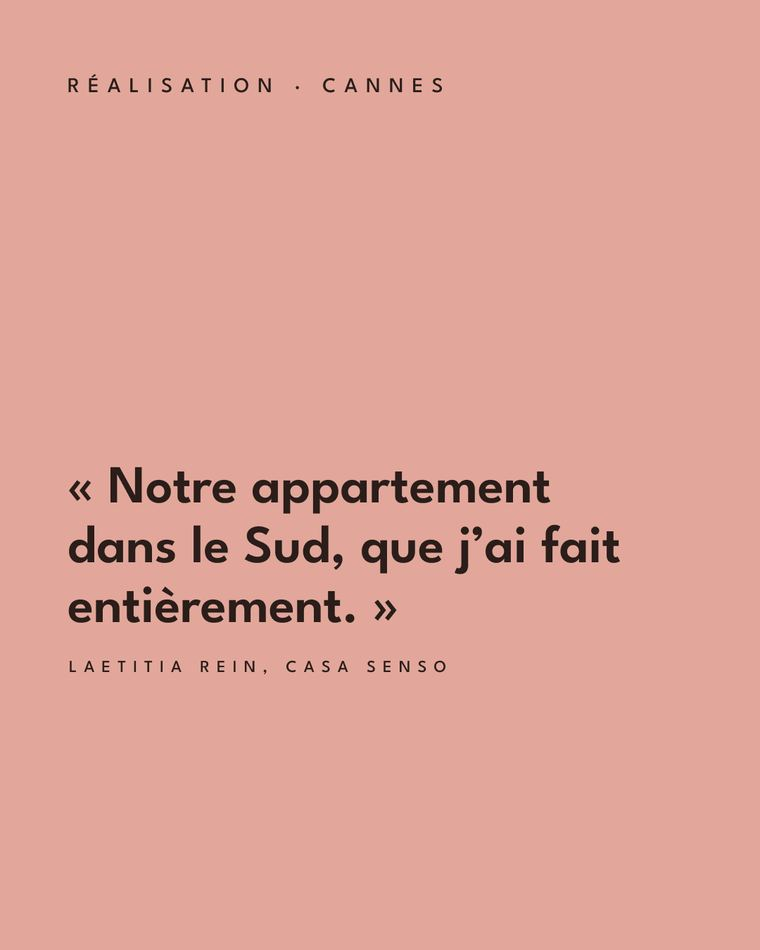
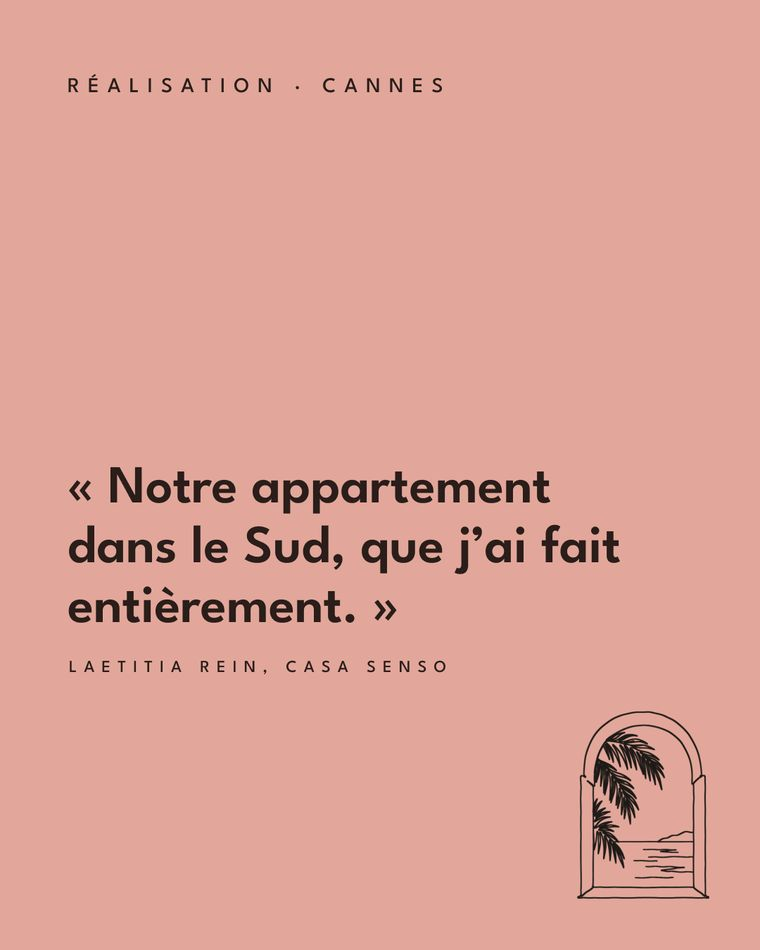
Cartes citation et fin : illustration au trait validée, appliquée dans Figma et l'artefact

Changed region(s): [[0.7566, 0.7632, 0.9382, 0.9463]]

diff --git a/outputs/batches/CASASENSO-cartes-differenciateurs-20261113/FICHE-DE-LOT.md b/outputs/batches/CASASENSO-cartes-differenciateurs-20261113/FICHE-DE-LOT.md
@@ -1,4 +1,4 @@
-# Lot CASASENSO-cartes-differenciateurs-20261113 · version 1 · statut : livré pour choix dans Figma (13.11.2026)
+# Lot CASASENSO-cartes-differenciateurs-20261113 · version 1 · statut : B · Trait validé par Diego (13.11.2026)
 
 Demande de Diego (13.11.2026) : les cartes de couleur (B-6 Fin Idées déco, MBV2-7 Citation moodboard, v3-S6 Carte citation Livre I, RE-4 Citation Réalisation) sont « trop ternes » ; ajouter des patterns, des icônes ou quelque chose de plus travaillé que « une couleur et une slide neutre ». Expériences avec GPT Image 2.5, propositions dans Figma.
 Mode : exploration, 3 pistes par carte, texte et mise en page inchangés.
@@ -15,3 +15,6 @@ Retours : en attente.
 - `prepare.py` : textures → grain neutre (fusion Incrustation dans Figma, opacité 0,28 à 0,5) ; traits → PNG transparent crème (encre sur la carte rose), trait épaissi ; objets → recadrés au contour.
 - Figma page 02, section 121:365 « Expériences 13.11 · cartes plus travaillées » : 4 cartes × 5 colonnes (Actuelle, A Matière, B Trait, C Collage, D Matière + trait).
 - Associations : Idées déco = enduit / fauteuil et lampe / eucalyptus ; Moodboard = lin / nuancier de tissus / échantillons ; Livre = papier fait main / la vieille bâtisse / clé ancienne ; Réalisation = enduit / fenêtre en arche sur la mer / palme séchée.
+
+## Retours
+- 13.11.2026, Diego : valide « B · Trait » pour les 4 cartes. Appliqué dans les carrousels Figma (frames 128:415, 128:426, 128:431, 128:436 ; anciennes versions en Archives) et dans l'artefact.

diff --git a/brand/charte-reseaux-sociaux.md b/brand/charte-reseaux-sociaux.md
@@ -76,3 +76,8 @@ Livre ocre #A69368 · Voyage sans carte · Avant/après corail #C8613F · Moodbo
 - **Coulisses et chantiers** : mise en page « Légende blanche » (modèle Apartamento) retenue : photo en haut, bande blanche avec le jour, une phrase SemiBold encre et le folio « n / 7 ». Post 4:5 ; les stories ne sont plus le format principal.
 - **Idées déco** : DA « Olive du site » retenue, d'après casa-senso.ch : cartes olive #404734, conseils en photo plein cadre avec légende blanche, « À retenir » sur blanc cassé #F7F7F7. Le bleu majorelle est abandonné.
 - Couleurs de rubrique : Livre ocre #A69368 · Voyage sans carte · Avant/après corail #C8613F · Moodboards prune vif #7A3B4E · Réalisations rose poudré #E2A79A · Coulisses encre chaude #4A4440 · Espaces pro sauge #6E7F73 · Idées déco olive #404734.
+
+## Cartes de couleur : illustration au trait (validée par Diego le 13.11.2026)
+- Les cartes citation et fin reçoivent une illustration au trait fin, en bas à droite, crème sur les cartes foncées, encre sur le rose (esprit de ses couvertures de stories à la une, sans dorure).
+- Validées : Idées déco B-6 Fin (fauteuil et lampe), Moodboard citation (nuancier de tissus), Livre I carte citation (la vieille bâtisse), Réalisation Cannes citation (fenêtre en arche sur la mer).
+- Dessins générés (GPT Image 2.5), traités en PNG transparent : lot CASASENSO-cartes-differenciateurs-20261113. Toujours au moins 50 px sous la signature.
